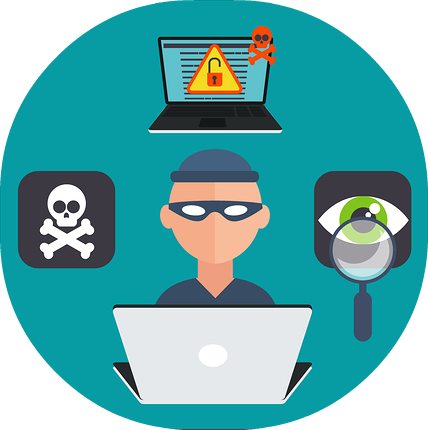
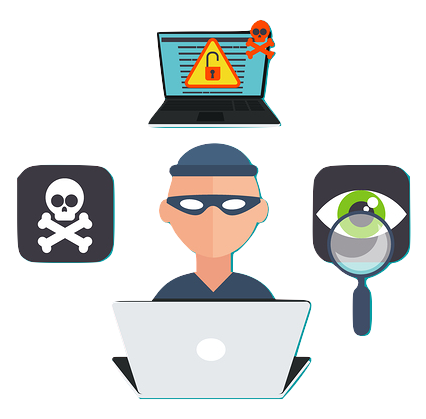
finshing touches
added the icons without the background and a few other things I thought put the finishing touches on the project.

diff --git a/flyer.html b/flyer.html
@@ -34,10 +34,10 @@
         <p id="concentration2" class="concentrationTB"><img id="icon" src = "images/cyberSecIcon.png"><br><b>Cyber Security & Networking</b><br><br>Focuses on network and information security and approved Criminal Justice courses</p>
         <p id="concentration3" class="concentrationTB"><img id="icon" src = "images/digitalDesIcon.png"><br><b>Digital & Interactive Design</b><br><br>Prepares students to work on the technical side of computer interactive mobile graphics/visual effects in a variety of digital media fields</p>
         <p id="concentration4" class="concentrationTB"><img id="icon" src = "images/infoSysIcon.png"><br><b>Information Systems</b><br><br>Focuses on business systems, including networks, databases, and approved business courses</p>
-        <p id ="about" class="infoTB"><b><br><br>ABOUT Computer Science:</b><br>Technology is growing at a fast pace. Computer scientists are needed in every type of industry. Salaries reflect this demand and the opportunities are abundand in this field.</p>
+        <p id ="about" class="infoTB"><b><br><br>ABOUT</b> <strong>Computer Science:</strong><br><br>Technology is growing at a fast pace. Computer scientists are needed in every type of industry. Salaries reflect this demand and the opportunities are abundand in this field.</p>
 		<p id ="blank" class="infoTB"> </p>
-        <p id="why" class="infoTB"><b>Why LSUS: </b><br>Aside from affordable tuition, our mission is to produce graduates who possess the intellectual resources and professional and personal skills that will enable them to be effective and productive members of an ever-changing global community.</p>
-        <p id="contact" class="infoTB"><b>Contact us:</b> <br>(318)797-5000<br>admissions@lsus.edu<br>Address: 1 University Pl, <br> Shreveport, LA 71115</p>
+        <p id="why" class="infoTB"><b>WHY</b> <strong>LSUS:</strong><br><br>Aside from affordable tuition, our mission is to produce graduates who possess the intellectual resources and professional and personal skills that will enable them to be effective and productive members of an ever-changing global community.</p>
+        <p id="contact" class="infoTB"><b>Contact us:</b><br>(318)797-5000<br>admissions@lsus.edu<br>1 University Pl, <br> Shreveport, LA 71115</p>
     </div>
   </body>
 </html>    

diff --git a/CSS/styles.css b/CSS/styles.css
@@ -112,12 +112,12 @@
 .infoTB {
 	position: absolute;
 	width: 275px;
-	height: 250px;
+	height: 260px;
 	padding-top: 40px;
 	padding-right: 35px;
 	border-right: dashed;
 	border-color: #fcd121;
-	font-family: arial;
+	font-family: courier;
 	font-size: 14px;
 	text-align: center;
 	z-index: 100;
@@ -176,8 +176,8 @@ b {
 }
 
 #icon {
-	    width: 60px;
-	    height: 60px;
+	    width: 70px;
+	    height: 70px;
 	    padding-bottom: 10px;
 }
 
